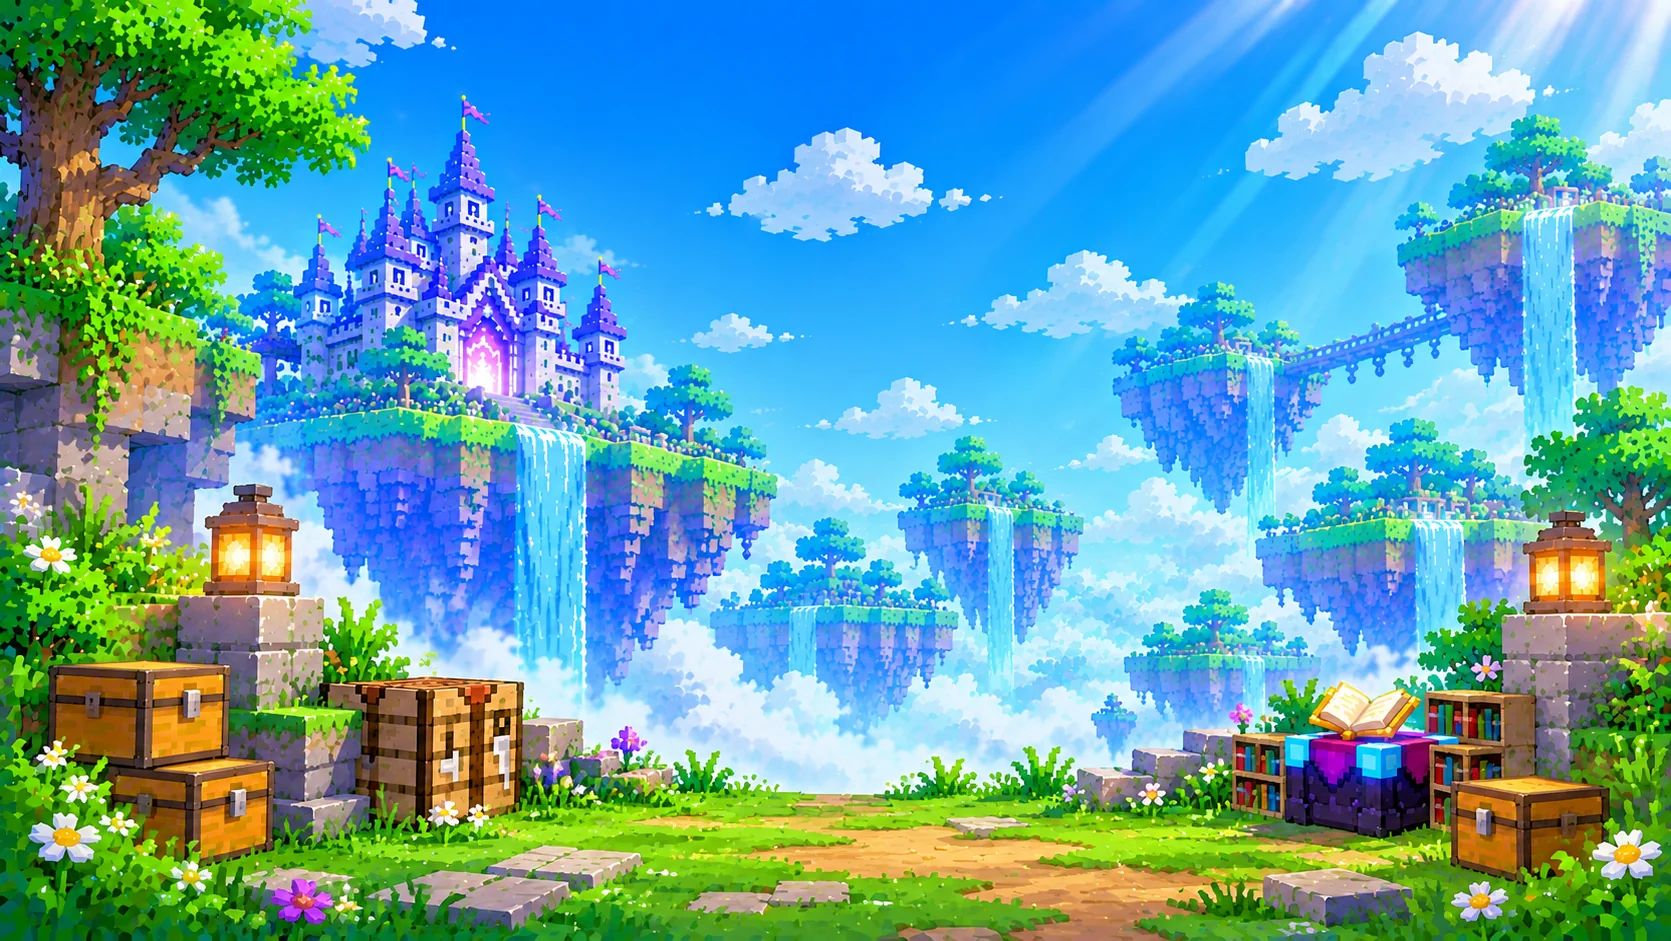
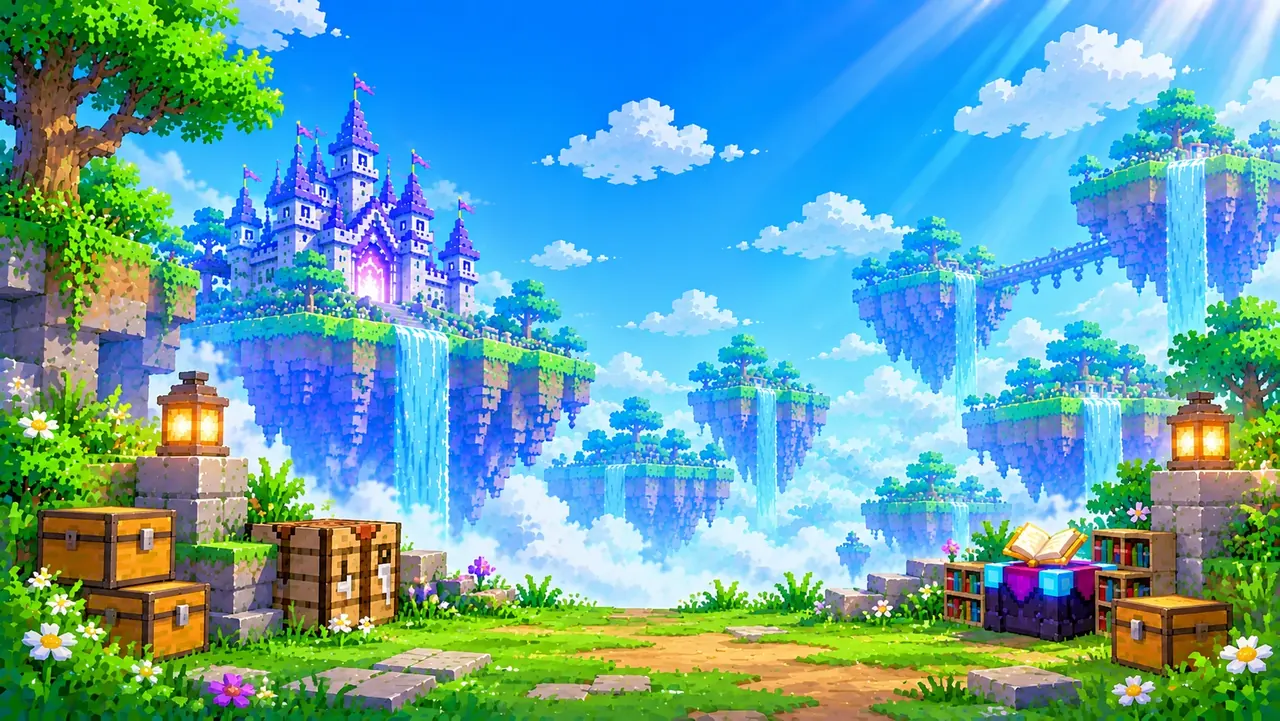
perf(assets): latar .webp diperkecil ke 1280px q78 (6.0 MB -> 3.0 MB, 29 file); SW v292; regenerasi media-hash

diff --git a/sw.js b/sw.js
@@ -9,7 +9,7 @@
    dimigrasikan: isi media dicocokkan dengan hash, yang cocok dipakai ulang tanpa unduh.
    JALANKAN ulang tools/gen-preload-manifest.py setiap mengganti/menambah media (tes tests/sw-incremental-media.test.js menjaganya).
    Request Range (audio) dilayani dari cache bila file sudah tersimpan penuh; bila belum, lewat jaringan biasa. Non-GET tidak disentuh. */
-const VERSION = 'ut-pwa-v291';
+const VERSION = 'ut-pwa-v292';
 const MEDIA_CACHE = 'ut-media'; /* permanen: tidak dibuang saat VERSION naik */
 const MEDIA_INDEX = '__media-index__'; /* kunci indeks hash di MEDIA_CACHE */
 const MEDIA_HASH_URL = 'assets/media-hash.json';
